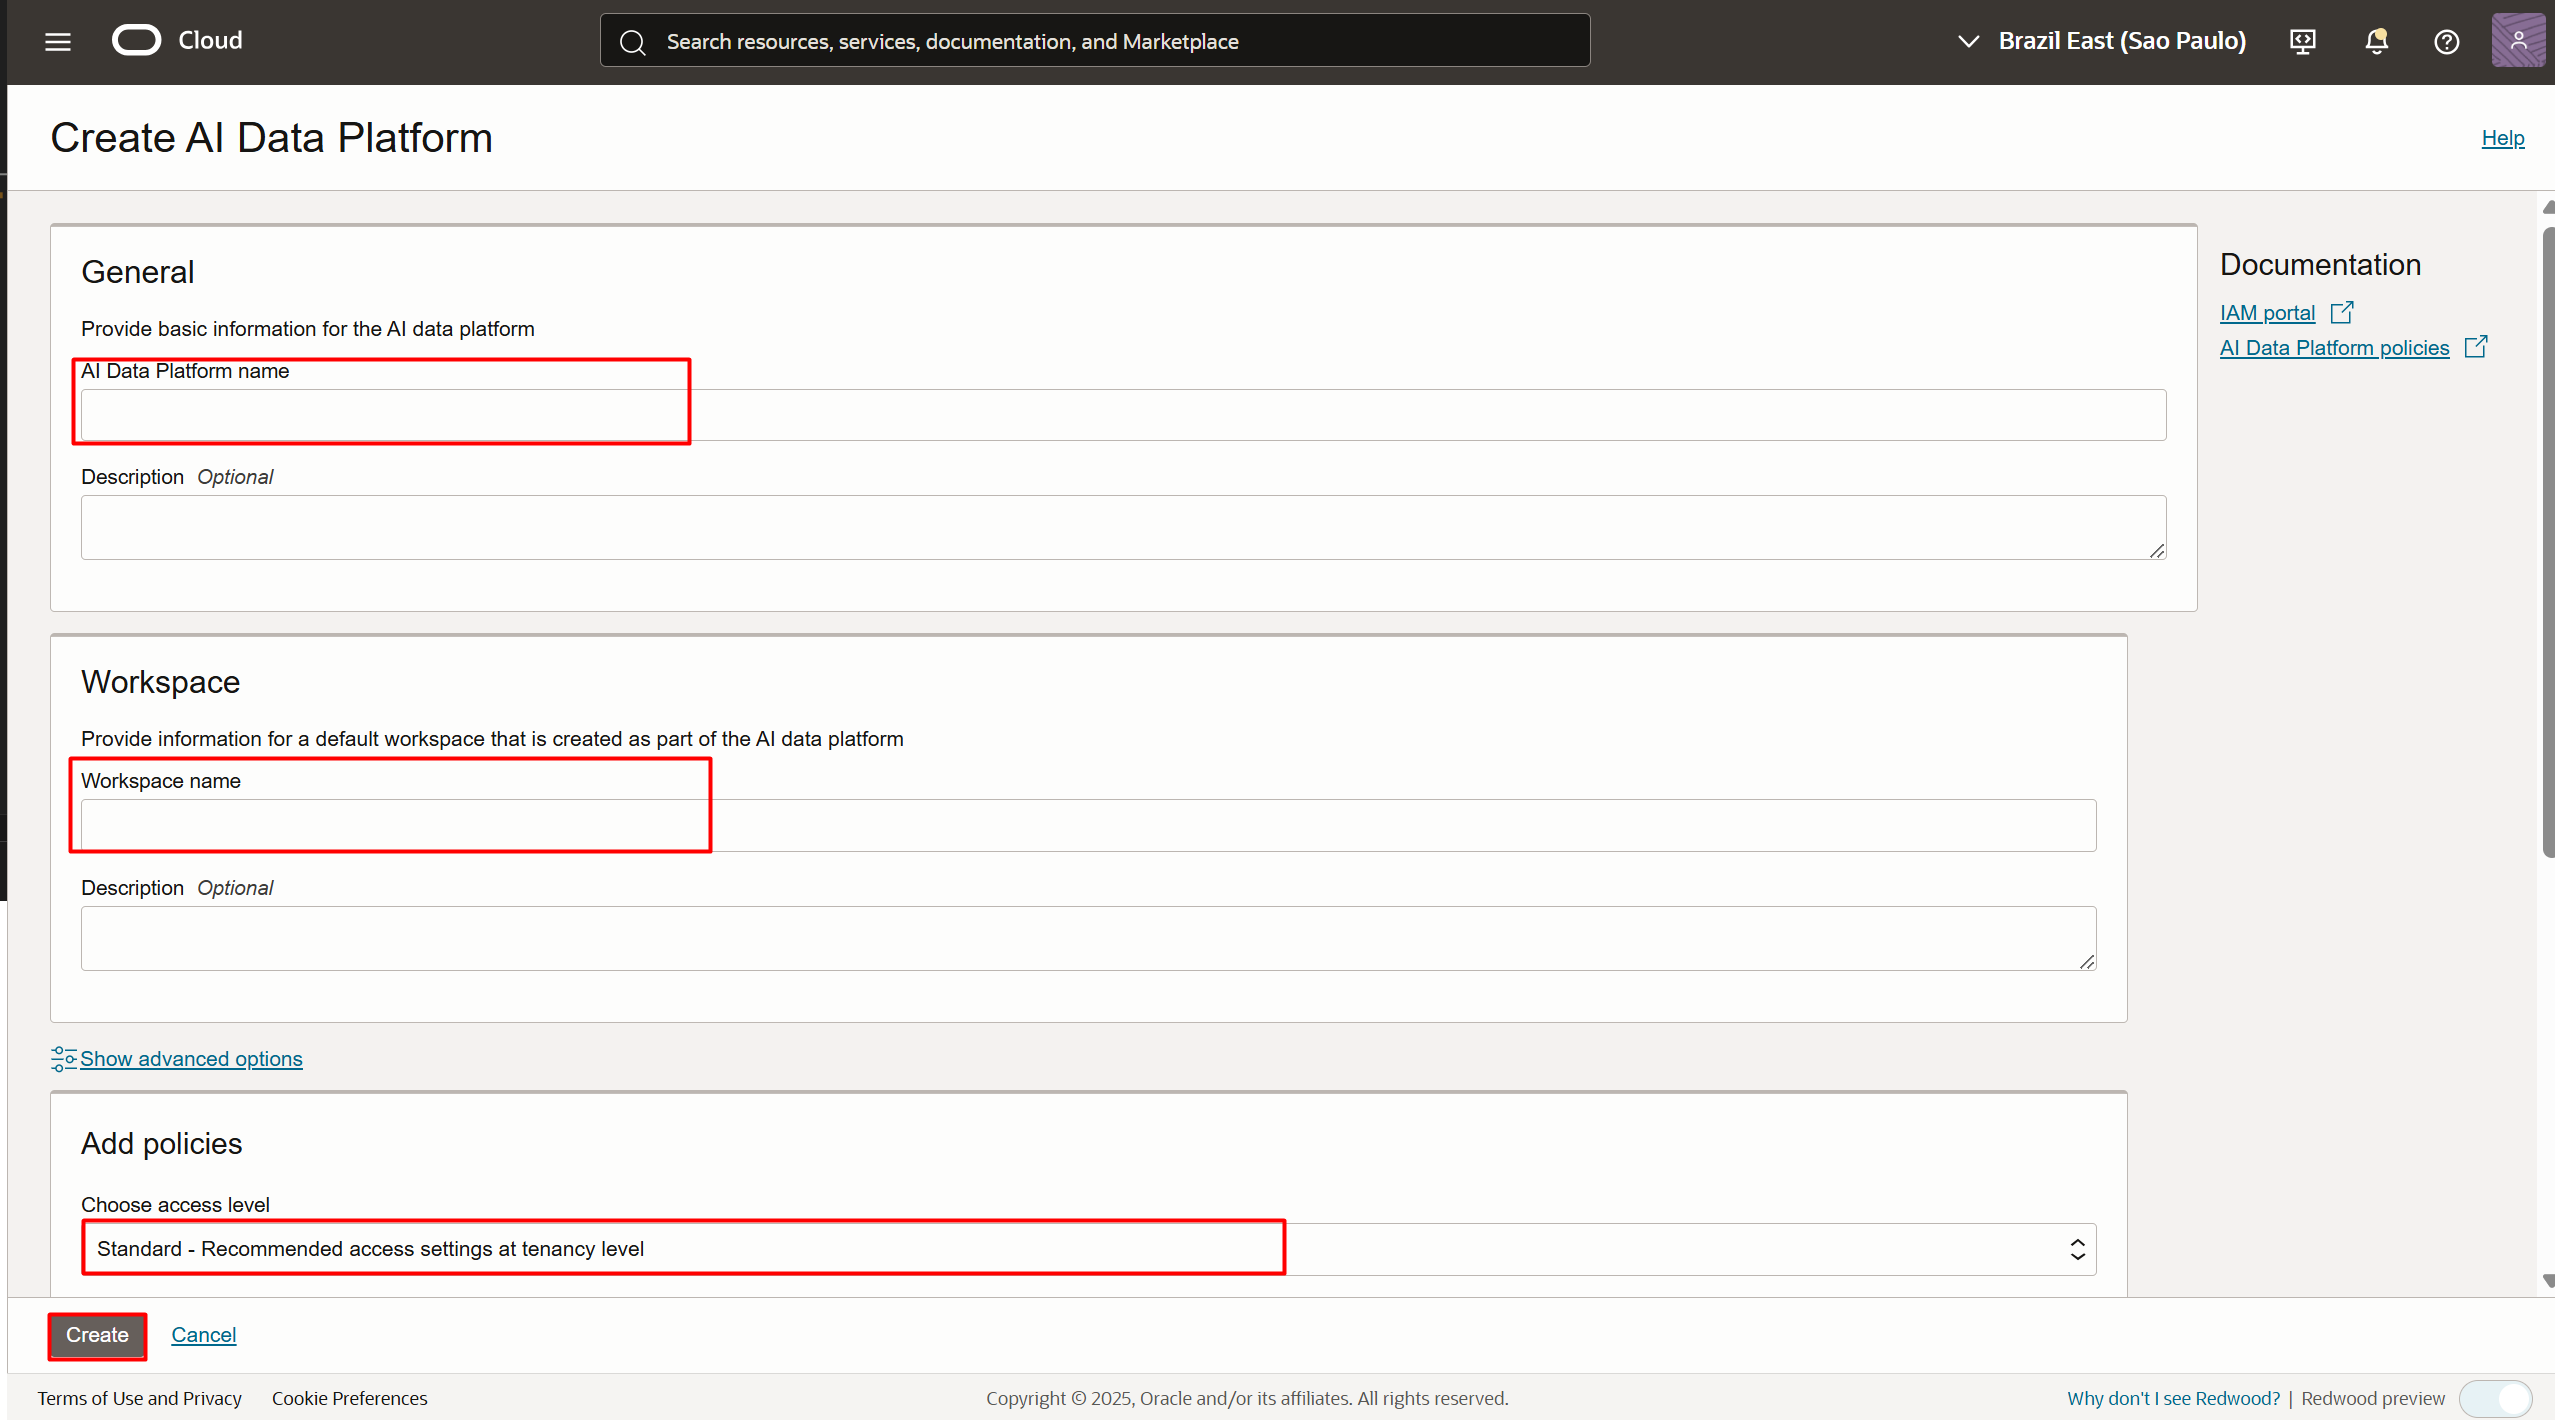
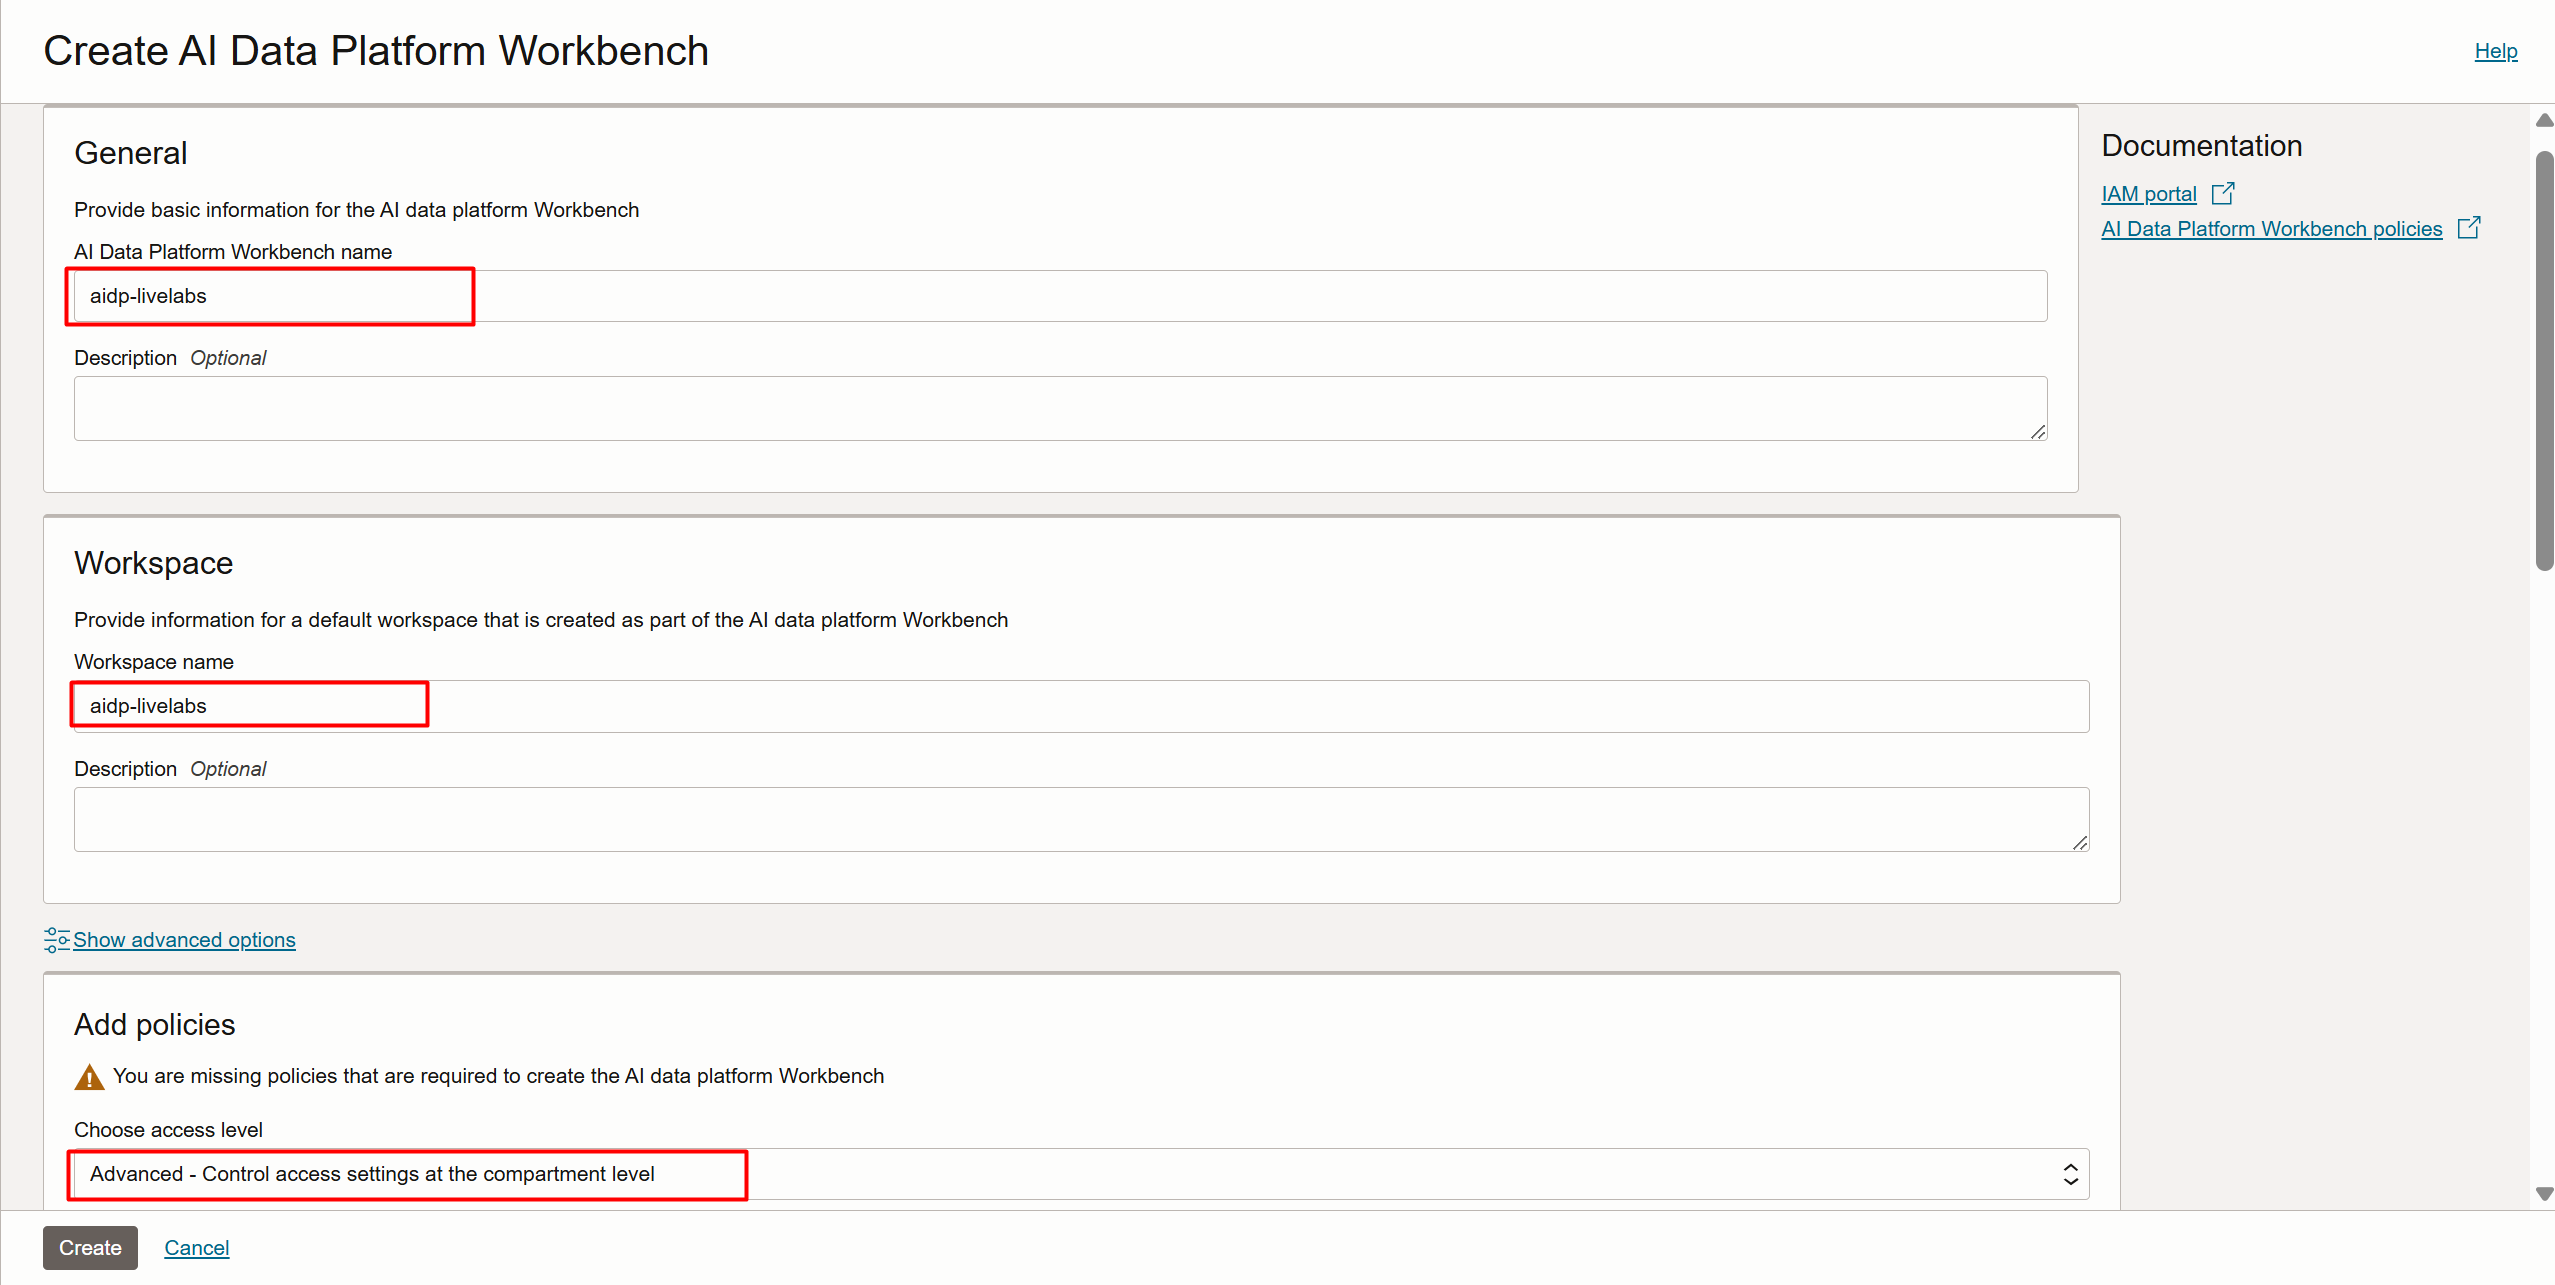
ajustes

diff --git a/ft-provisioning-resources-1/ft-provisioning-resources-1.md b/ft-provisioning-resources-1/ft-provisioning-resources-1.md
@@ -23,20 +23,78 @@ Além disso, possui orquestração visual e automação para gerenciar fluxos de
 
 ![Orquestração realizada no serviço AIDP](images/aidp-orchestration.png)
 
-## 1⃣ Configuração de Políticas
+## 1⃣ Criação do AIDP
 
-Antes de criar o ambiente de código, vamos configurar as permissões necessárias para a interação entre os serviços.
+> **ATENÇÃO:** Durante a criação do serviço, as políticas de acesso são configuradas automatixamente. **Se seu usuário da cloud não possui permissão para criação de políticas, é necessário que as etapas abaixo sejam realizadas por um administrador da conta.**
 
-Para isso, precisaremos de duas informações: **OCID da tenancy e nome do grupo que criaremos a seguir.**
+Clique no menu **(☰)** e selecione **Analytics & AI ⮕ AI Data Platform**.
 
-Para acessar a **tenancy OCID**, clique no ícone de seu perfil, na região direita superior ⮕ tenancy.
+![Acesso AIDP](images/acesso-aidp.png)
 
-![Acesso tenancy](images/tenancy-ocid.png)
+> **VERIFIQUE SE O COMPARTIMENTO DE CRIAÇÃO DO SERVIÇO ESTÁ CORRETO. O COMPARTIMENTO ESTÁ LISTADO NA REGIÃO ESQUERDA DA TELA. O RECOMENDADO É REALIZAR A CRIAÇÃO DO SERVIÇO FORA DO COMPARTIMENTO ROOT.**
 
-Copie a informação do **OCID da tenancy.**
-![Copiar tenancy ocid](images/copy-tenancy.png)
+Clique em **Create AI Data Plataform**.
 
-(PENDENTE) Tutorial criação de grupo.
+![Criação AIDP](images/aidp-criacao.png)
+
+Para criar uma instância do AI Data Platform informe o nome da plataforma e do workspace inicial.
+
+ - **NOME PLATAFORMA: aidp-livelabs** 
+ - **NOME WORKSPACE: aidp-livelabs**
+
+![Configuração AIDP](images/config-aidp.png)
+
+Escolha o nível de acesso (políticas) indicado abaixo - ADVANCED - clique em **Add** nos pontos indicados na imagem e clique em **Create**.
+
+![Policies AIDP](images/policies-aidp.png)
+
+Após a criação, você terá a instância provisionada em seu ambiente. Clique no ícone indicado para abrir o AI Data Plataform.
+
+![AIDP Criado](images/aidp-created.png)
+
+Caso tenha chegado até aqui, você pode seguir para o próximo laboratório.
+
+## [SIGA SOMENTE SE ETAPA ANTERIOR NÃO FUNCIONAR] Criação de Grupo e Tenancy OCID
+
+Para adicionar as políticas manualmente siga os passos abaixo.
+
+Para isso, precisaremos de duas informações: **OCID do compartimento onde o AIDP será criado e o nome do grupo de usuários que terá acesso a este ambiente.**
+
+O primeiro passo é a criação de um grupo. Este será o grupo de usuários terá acesso ao ambiente de desenvolvimento.
+
+Clique no menu **(☰)** e selecione **Identity & Security ⮕ Domains**
+
+![Acesso Domain](images/domain-access.png)
+
+Escolha o compartimento **root** e clique no Domain **Default** que aparecerá na página.
+
+![Acesso Default](images/access-default.png)
+
+Em seguida, clique em **User Management**, desça a página do navegador até encontrar **Groups** e clique em **Create Group**
+
+![Criação Grupo](images/create-group.png)
+
+Adicione o nome do grupo e os usuários que terão acesso ao ambiente e clique em **Create**.
+
+- **Nome Grupo:** projeto-dados
+
+![Nome Grupo](images/group-name.png)
+
+Agora vamos buscar a informação do Compartment ID. Clique no menu **(☰)** e selecione **Identity & Security ⮕ Compartments**
+
+![Compartment Access](images/compartments-access.png)
+
+Clique no nome do compartimento. 
+
+> **ATENÇÃO:** SEU COMPARTIMENTO PODE POSSUIR UM NOME DIFERENTE DO INDICADO NA IMAGEM.
+
+![Name Compartment](images/name-compartment.png)
+
+Copie a informação do **OCID do compartimento** e salve em algum documento.
+
+![OCID Compartment](images/ocid-compartment.png)
+
+## [SOMENTE SE ETAPA ANTERIOR NÃO FUNCIONAR] Configuração de Políticas
 
 Clique no menu **(☰)** e selecione **Identity & Security ⮕ Policies**
 
@@ -57,38 +115,23 @@ Escolha o **Compartment**: ```<NomeTenancy>(root)```. Em seguida, dê um nome e 
 Selecione **Show Manual Editor** e adicione as frases abaixo, substituindo os valores <aidpAdminGroup> e <aidpCompartmentId> pelos conteúdos obtidos na etapa anterior. Em seguida, clique em **Create**.
 
     <copy>  
-    allow group default/<aidpAdminGroup> to manage ai-data-platforms in compartment id <aidpCompartmentId>
-    allow any-user TO {AUTHENTICATION_INSPECT, DOMAIN_INSPECT, DOMAIN_READ, DYNAMIC_GROUP_INSPECT, GROUP_INSPECT, GROUP_MEMBERSHIP_INSPECT, USER_INSPECT, USER_READ} IN TENANCY where all {request.principal.type='aidataplatform'}
-    allow any-user to manage log-groups in compartment id <aidpCompartmentId> where ALL { request.principal.type='aidataplatform' }
-    allow any-user to read log-content in compartment id <aidpCompartmentId> where ALL { request.principal.type='aidataplatform' }
-    allow any-user to use metrics in compartment id <aidpCompartmentId> where ALL {request.principal.type='aidataplatform', target.metrics.namespace='oracle_aidataplatform'}
-    allow any-user to manage buckets in tenancy where all { request.principal.type='aidataplatform', any {request.permission = 'BUCKET_CREATE', request.permission = 'BUCKET_INSPECT', request.permission = 'BUCKET_READ', request.permission = 'BUCKET_UPDATE'}}
-    allow any-user to {TAG_NAMESPACE_USE} in tenancy where all {request.principal.type = 'aidataplatform'}
-    allow any-user to manage objects in tenancy where all { request.principal.id=target.bucket.system-tag.orcl-aidp.governingAidpId  }
-    allow any-user to {TAG_NAMESPACE_USE} in tenancy where all {request.principal.type = 'aidataplatform'}
-    allow any-user to manage objects in tenancy where all { request.principal.id=target.bucket.system-tag.orcl-aidp.governingAidpId  }
+    allow any-user to manage buckets in compartment id <aidpCompartmentId> where all { request.principal.id=target.resource.tag.orcl-aidp.governingAidpId, any {request.permission = 'BUCKET_DELETE', request.permission = 'PAR_MANAGE', request.permission = 'RETENTION_RULE_LOCK', request.permission = 'RETENTION_RULE_MANAGE'} }
 
+    allow any-user to manage log-groups in compartment id <aidpCompartmentId> where ALL { request.principal.type='aidataplatform' }
+
+    allow any-user to read log-content in compartment id <aidpCompartmentId> where ALL { request.principal.type='aidataplatform' }
+
+    allow any-user to use metrics in compartment id <aidpCompartmentId> where ALL { request.principal.type='aidataplatform', target.metrics.namespace='oracle_aidataplatform' }
+
+    allow any-user to read objectstorage-namespaces in compartment id <aidpCompartmentId> where all { request.principal.type='aidataplatform', any {request.permission = 'OBJECTSTORAGE_NAMESPACE_READ'} }
+
+    allow any-user to manage buckets in compartment id <aidpCompartmentId> where all { request.principal.type='aidataplatform', any {request.permission = 'BUCKET_CREATE', request.permission = 'BUCKET_INSPECT', request.permission = 'BUCKET_READ', request.permission = 'BUCKET_UPDATE'} }
+
+    allow any-user to manage objects in compartment id <aidpCompartmentId> where all { request.principal.id=target.bucket.system-tag.orcl-aidp.governingAidpId }
     </copy>  
 
 <!-- Separador -->
-> **ATENÇÃO:** É necessário ajustar o conteúdo da policy com as informações obtidas na primeira etapa: OCID da tenancy no local de <aidpCompartmentId> e nome do grupo no local de <aidpAdminGroup>.
-
-
-## 2⃣ Criação do AIDP
-Clique no menu **(☰)** e selecione **Analytics & AI ⮕ AI Data Platform**.
-
-![Acesso AIDP](images/acesso-aidp.png)
-
-Clique em **Create AI Data Plataform**
-
-![Criação AIDP](images/aidp-criacao.png)
-
-Para criar uma instância do AI Data Platform você só precisa: **informar o nome da plataforma, definir o nome do workspace inicial, escolher o nível de acesso (políticas) e então clicar em Create.**
-
- - **NOME PLATAFORMA: aidp-livelabs** 
- - **NOME WORKSPACE: aidp-livelabs**
-
-![Configuração AIDP](images/config-aidp.png)
+> **ATENÇÃO:** É necessário ajustar o conteúdo da policy com as informações obtidas na primeira etapa: OCID do compartimento onde o AIDP está no local de ```<aidpCompartmentId>``` e nome do grupo no local de ```<aidpAdminGroup>```.
 
 ## Conclusão
 
@@ -96,5 +139,5 @@ Nesta laboratório, você aprendeu como realizar a criação das políticas e do
 
 ## Autoria
 
-- *Created By/Date* - Thais Henrique, Heloisa Escobar, Isabelle Anjos, Janeiro 2024
-- *Last Updated By* - Isabelle Anjos, Outubro 2025
+- *Created By/Date* - Armando Neto, Isabelle Anjos, Janeiro 2026
+- *Last Updated By* - Isabelle Anjos, Janeiro 2026
